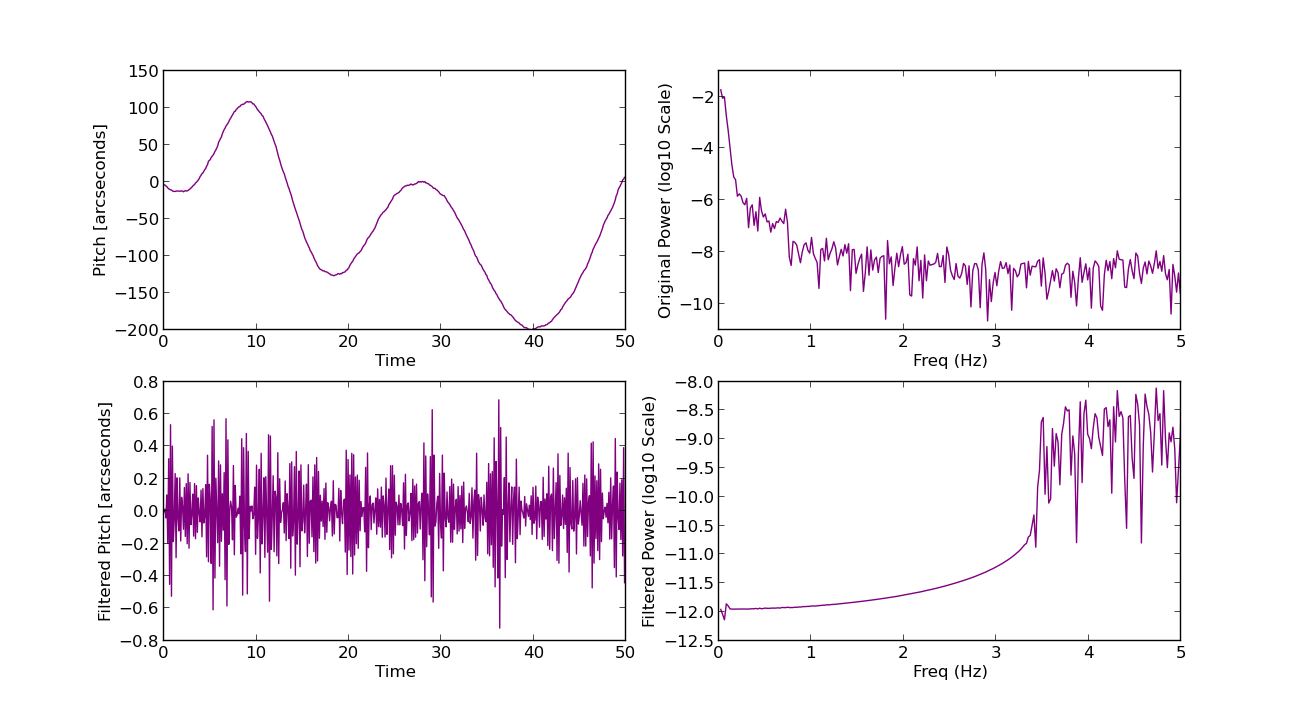
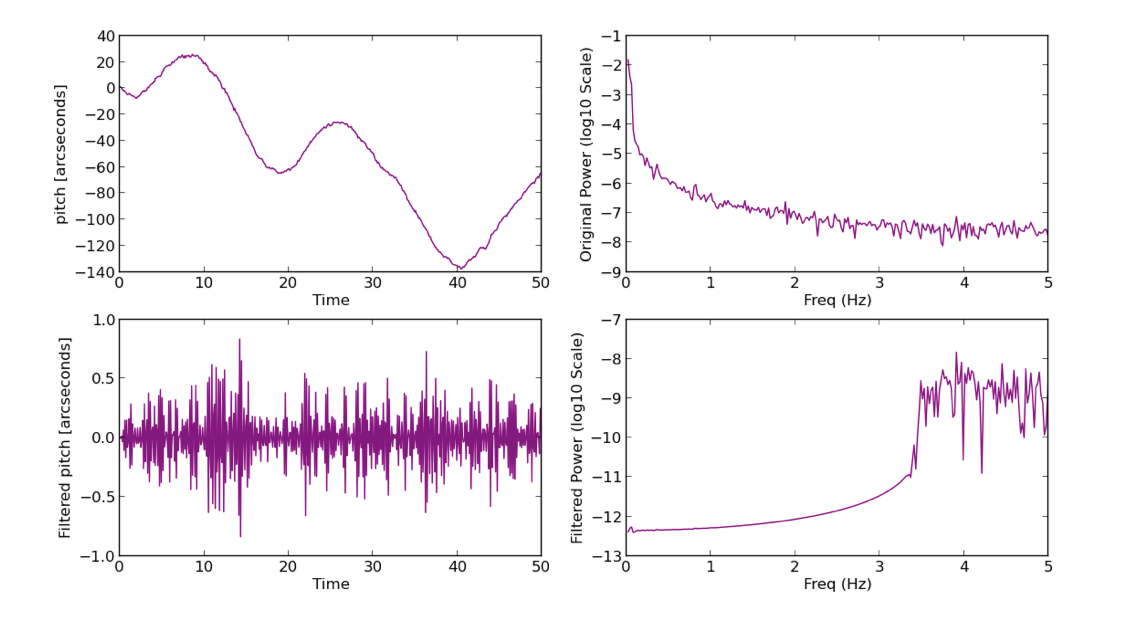
updated our analysis

diff --git a/IEEE/IEEE_paper.tex b/IEEE/IEEE_paper.tex
@@ -281,7 +281,7 @@ The analysis of DayStar's test flight data began by finding stars in the images 
 \begin{figure}[H]
     \centering
     \includegraphics[width = 3.3in]{\rootdir centroidmethods.png}
-    \caption{Comparison of weighted center of gravity (red), center of gravity (green), and Gaussian centroid methods (blue) on a typical star after region of interest column subtraction.}
+    \caption{Comparison of weighted center of gravity (red), center of gravity (green), and Gaussian centroid methods on a typical star after region of interest column subtraction.}
     \label{fig:centroidmethods}
 \end{figure}
 
@@ -348,14 +348,14 @@ The angles were then transformed into the frequency domain, using Fast Fourier t
 \subsection{Nighttime Results}
 Figure \ref{fig:Filtering} shows plots illustrating the filtering process for each Euler angle in a yaw-pitch-roll sequence for a set of 500 nighttime images taken over 50 seconds. Time-domain signals are on the leftmost subplots, and frequency-domain power plots are on the rightmost subplots, with raw signals on top and filtered signals on the bottom.
 
-The motion of the balloon gondola is clearly visible in the yaw, pitch, and roll plots. Throughout the 50 second burst, the gondola appears to have undergone 3 cycles mainly consisting of yaw. From the power spectrum plots, it is apparent that majority of the low frequency motion is found below 2 Hz. Assuming that this motion is primarily due to the dynamics of the balloon and gondola, an elliptical high-pass filter is implemented at 3.5 Hz to isolate the high frequency oscillations. Motion above 3.5 Hz is assumed to represent the performance of the DayStar system and its algorithms alone.
+The motion of the balloon gondola is clearly visible in the yaw, pitch, and roll plots. Throughout the 50 second burst, the gondola appears to have undergone 3 cycles. From the power spectrum plots, it is apparent that majority of the low frequency motion is found below 2 Hz. Assuming that this motion is primarily due to the dynamics of the balloon and gondola, an elliptical high-pass filter is implemented at 3.5 Hz to isolate the high frequency oscillations. Motion above 3.5 Hz is assumed to represent the performance of the DayStar system and its algorithms alone.
 
 The standard deviation of the of the filtered yaw, pitch, and roll for this 500 image burst is:
 
 \begin{align*}
-    \sigma_{Yaw} = 5.506 \ arcseconds \\
-    \sigma_{Pitch} = 0.225 \ arcseconds \\
-    \sigma_{Roll} = 0.262 \ arcseconds
+    \sigma_{Yaw} = 0.205 \ arcseconds \\
+    \sigma_{Pitch} = 0.247 \ arcseconds \\
+    \sigma_{Roll} = 5.161 \ arcseconds
 \end{align*}
 
 These results can be misleading because the standard deviation of the pitch, roll, and yaw vary over time. A plot of the filtered results enveloped by a 10-datapoint rolling $3\sigma$ standard deviation is shown in Figure \ref{fig:RollingSTD}.
@@ -367,17 +367,17 @@ These results can be misleading because the standard deviation of the pitch, rol
     \label{fig:RollingSTD}
 \end{figure}
 
-The standard deviation of the yaw was as low as ~2 arcseconds during some portions of this dataset. Periods of worst performance occur when the gondola changes direction most drastically. This coarse yaw control was provided by a 1 degree yaw corrector on the balloon flight string. It is possible that high frequency noise from this motor caused apparent inflation of the yaw, pitch, and roll performance while applying azimuthal corrections to the gondola. This would make false the assumption that all high frequency data solely represents DayStar's performance.
+The standard deviation of the yaw was as low as ~0.08 arcseconds during some portions of this dataset. Periods of worst performance occur when the gondola changes direction most drastically. This coarse yaw control was provided by a 1 degree yaw corrector on the balloon flight string. It is possible that high frequency noise from this motor caused apparent inflation of the yaw, pitch, and roll performance while applying azimuthal corrections to the gondola. This would make false the assumption that all high frequency data solely represents DayStar's performance.
 
 %-------------------------------------------------------------------------------------------------------
 \subsection{Daytime Results}
 
-Unlike the nighttime images, daytime images were heavily affected by high sky background levels. This caused the high-gain images to saturate, so only the low-gain images were usable. These images display much more column bias than their high-gain counterparts, degrading the signal-to-noise of stars in the daytime images. In addition, since the imaging system on DayStar had no cooling, the image sensor operated at around $10 \ ^{\circ} C$ during the daytime. The sensor is very sensitive to temperature changes, and operates best at $-40\ ^{\circ}C$. A 10 degree increase in sensor temperature typically equates to doubling the dark current and hot pixels in each image \cite{AndorTemp}.
+Unlike the nighttime images, daytime images were heavily affected by high sky background levels. This caused the high-gain images to saturate, so only the low-gain images were usable. These images display much more column bias than their high-gain counterparts, degrading the signal-to-noise of stars in the daytime images. In addition, since the imaging system on DayStar had no cooling, the image sensor operated at around 10C during the daytime. The sensor is very sensitive to temperature changes, and operates best at -40C. A 10 degree increase in sensor temperature typically equates to doubling the dark current and hot pixels in each image \cite{AndorTemp}.
 
 \begin{figure}[H]
     \centering
     \includegraphics[width=3.6in]{\rootdir day_raw.png}
-    \caption{A raw image taken at 17:12 MST during the day. The influence of daytime scattering is evident, and no stars are readily visible.}
+    \caption{A raw image taken at 17:12 during the day. The influence of daytime scattering is evident, and no stars are readily visible.}
     \label{fig:day_raw}
 \end{figure}
 
@@ -398,7 +398,7 @@ Figure \ref{fig:day_zoom} shows one of the stars seen in the processed daytime i
     \label{fig:day_zoom}
 \end{figure}
 
-The fact that DayStar was able to see stars in high ambient light conditions proves the feasibility of a daytime star tracker. However, there are only three stars; this is not enough to provide accurate tracking knowledge. Future revisions of DayStar must remove more systematic noise and aberrations before daytime tracking can be provided with the same precision as nighttime tracking.
+The fact that DayStar was able to see stars in high ambient light conditions proves the feasibility of a daytime star tracker. Stars were sensed even in a non-optimal operational configuration. However, there are only three stars; this is not enough to provide accurate tracking knowledge. Future revisions of DayStar must remove more systematic noise and aberrations before daytime tracking can be provided with the same precision as nighttime tracking.
 
 
 %-------------------------------------------------------------------------------------------------------
@@ -409,7 +409,7 @@ Through modeling, testing, and analysis, the DayStar team has shown that its des
 
 DayStar's main goal at this point is to operate on another test flight within a year's time. As it was a prototype unit, conceived and built on a short schedule, several shortcomings were identified in the design and evidenced in the flight results. One issue was that the power system was contained in a single unit, far from the camera. The imaging system must be supplied stringent power requirements to operate ideally, and the power subsystem did not meet those requirements. An imaging board with more power planes and better isolation will provide cleaner images. These, in turn, will yield more accurate centroids, and more identifiable stars during daytime.
 
-Another design change would be to add active thermal regulation to key components, specifically the CMOS image sensor. In flight, the imaging system temperature primarily stayed above $0 \ ^{\circ} C$, which is $40 \ ^{\circ} C$ above the intended operating temperature. Dark currents and hot pixels increase with temperature, and active cooling down to the sensor's optimal temperature range will help provide cleaner images for analysis.
+Another design change would be to add active thermal regulation to key components, specifically the CMOS image sensor. In flight, the imaging system temperature stayed around 10 degrees Celsius, which is 50 degrees above the intended operating temperature. Dark currents and hot pixels increase with temperature, and active cooling down to the sensor's optimal temperature range will help provide cleaner images for analysis.
 
 Finally, the operation plan used for flight requires modifications. The imaging system has two gain settings: high and low. In night tests, the high gain settings were observed to be much cleaner than low, and stars were easier to identify from the background. Ideally, the images would be exposed for the high gain settings. In daytime, exposures were such that the high gain images were fully saturated. By adjusting exposure times to ensure that the high gain images are correctly exposed, improved star identification and tracking performance is expected.
 
